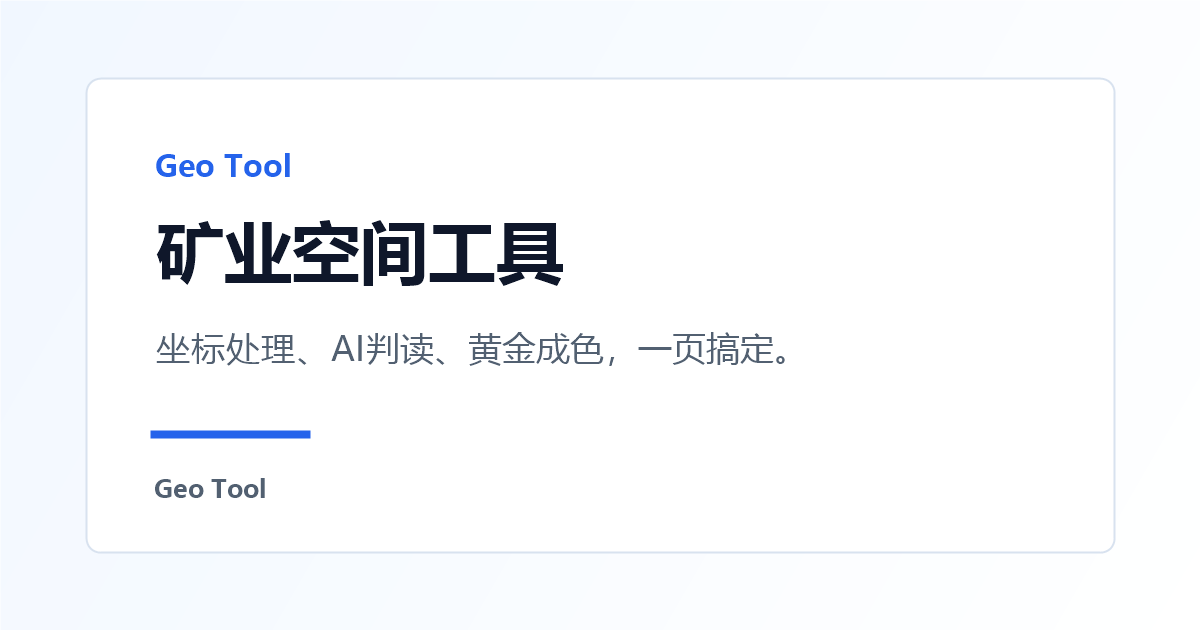
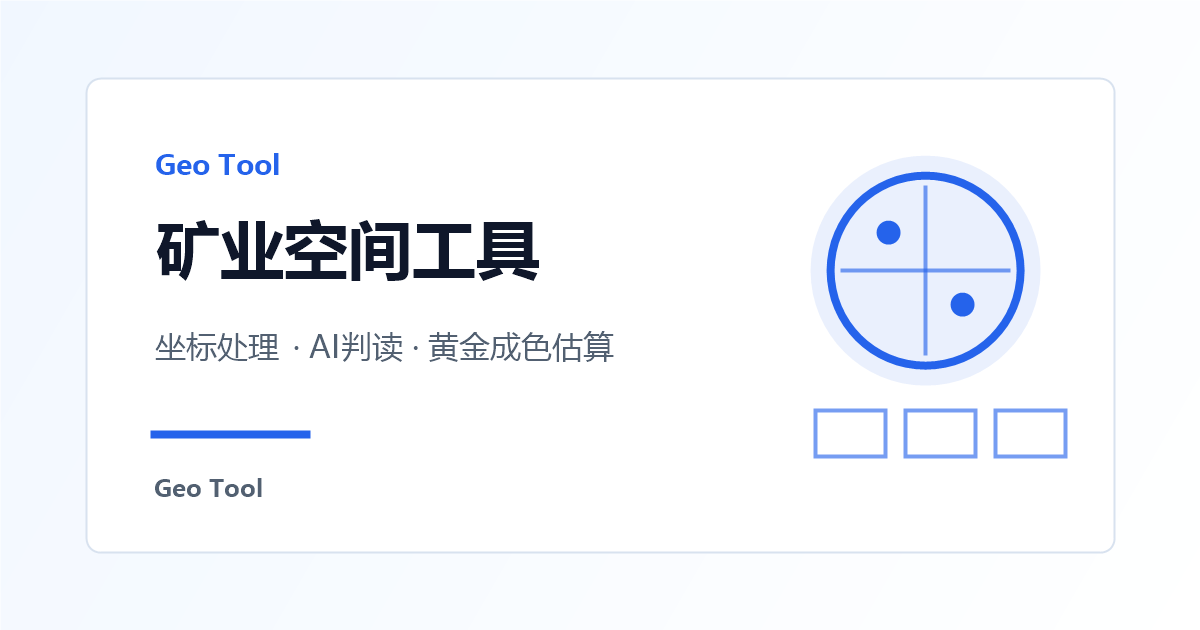
Fix dynamic share cards for each page

diff --git a/server.js b/server.js
@@ -37,22 +37,22 @@ const goldPriceApiKey = String(process.env.GOLDAPI_KEY || process.env.GOLD_PRICE
 const shareMetaMap = {
   "/": {
     title: "矿业空间工具 Geo Tool",
-    desc: "坐标处理、AI判读、黄金成色，一页搞定。",
+    desc: "坐标处理、AI矿地判读、黄金成色估算，一页进入。",
     image: "/share-home.png"
   },
   "/tool": {
     title: "坐标处理工具",
-    desc: "一键识别坐标、生成KML，支持图片识别。",
+    desc: "上传坐标图或粘贴坐标，一键整理并生成 KML 文件。",
     image: "/share-tool.png"
   },
   "/convert": {
     title: "坐标处理工具",
-    desc: "一键识别坐标、生成KML，支持图片识别。",
+    desc: "上传坐标图或粘贴坐标，一键整理并生成 KML 文件。",
     image: "/share-tool.png"
   },
   "/ocr": {
     title: "坐标处理工具",
-    desc: "一键识别坐标、生成KML，支持图片识别。",
+    desc: "上传坐标图或粘贴坐标，一键整理并生成 KML 文件。",
     image: "/share-tool.png"
   },
   "/judge": {
@@ -62,10 +62,11 @@ const shareMetaMap = {
   },
   "/gold": {
     title: "黄金成色计算器",
-    desc: "快速计算成色、K值和预估价格。",
+    desc: "输入黄金重量和排水差重，快速估算成色、K值和参考总价。",
     image: "/share-gold.png"
   }
 };
+const shareImageVersion = "20260505";
 
 app.use(express.json({ limit: "1mb" }));
 
@@ -104,7 +105,7 @@ function getShareMeta(req) {
   return {
     ...meta,
     url: `${origin}${normalizedPath === "/index.html" ? "/" : normalizedPath}`,
-    imageUrl: `${origin}${meta.image}`
+    imageUrl: `${origin}${meta.image}?v=${shareImageVersion}`
   };
 }
 
